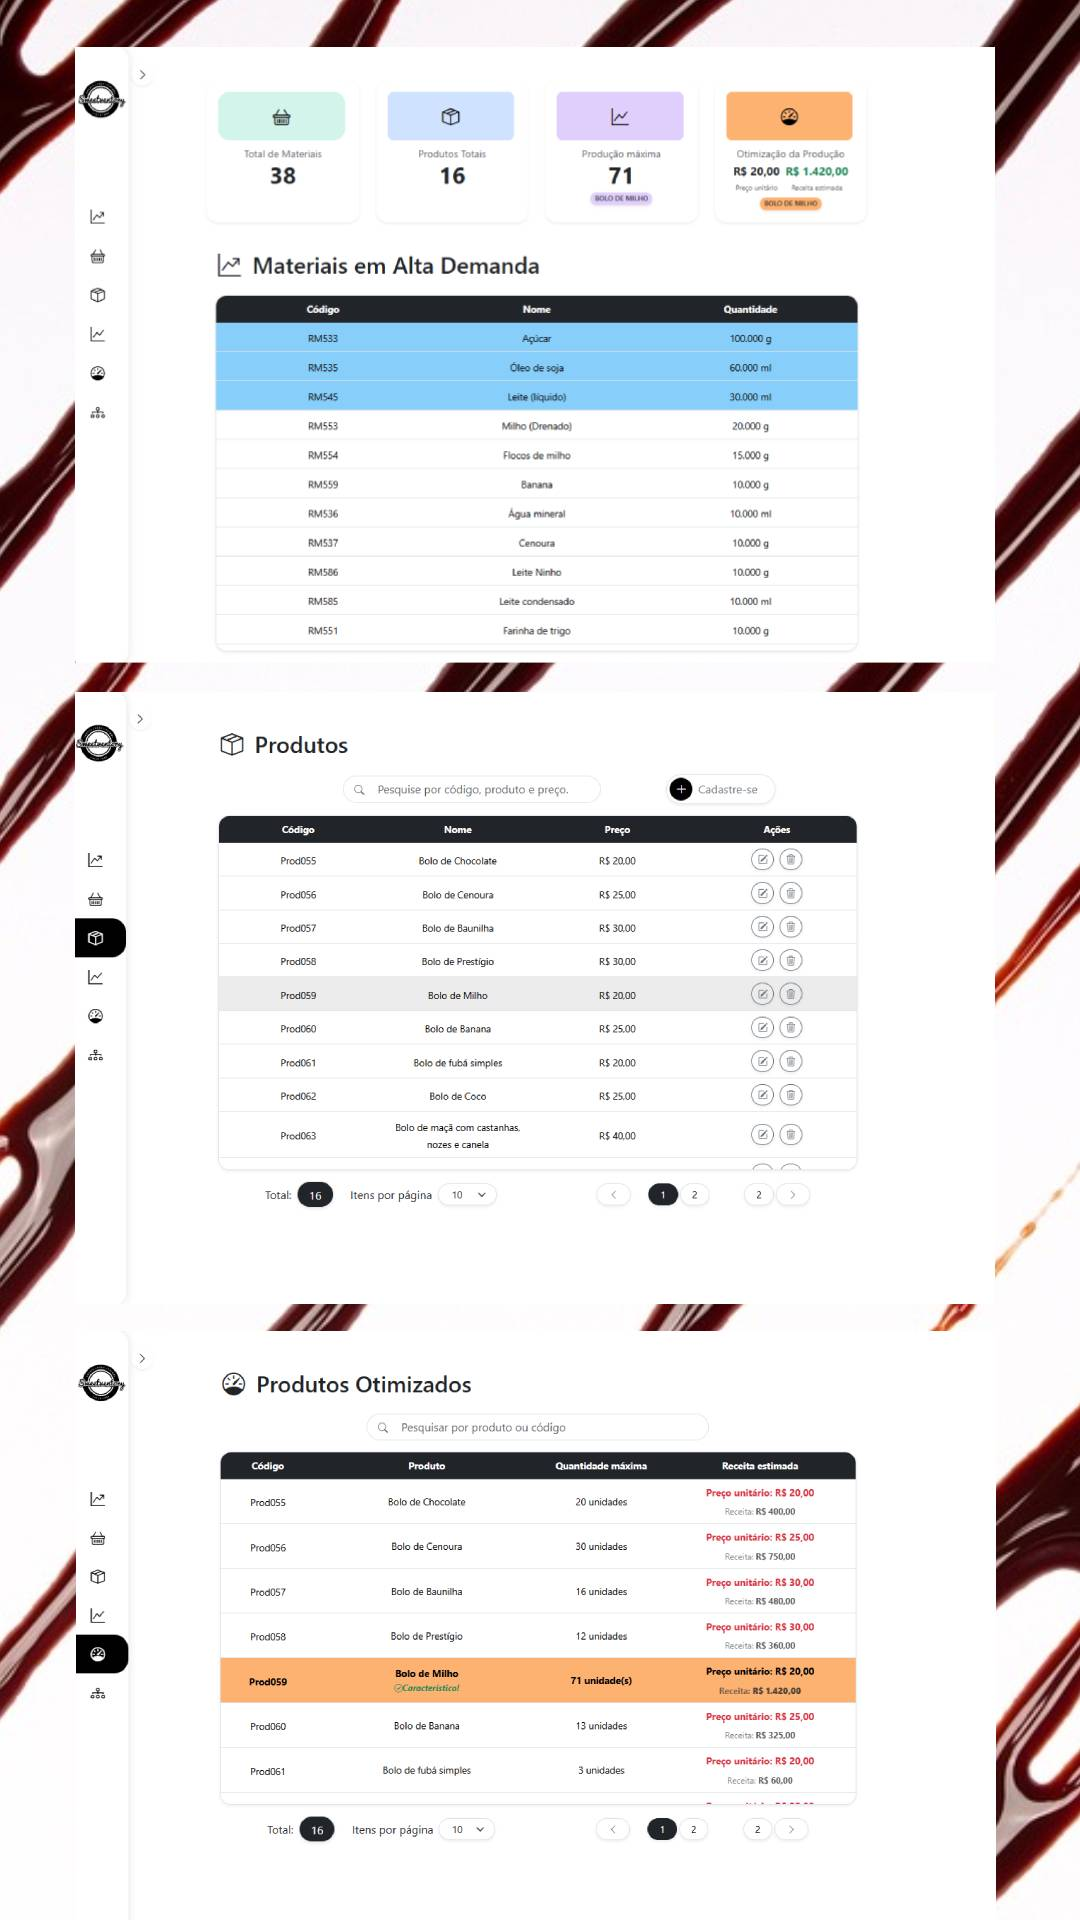
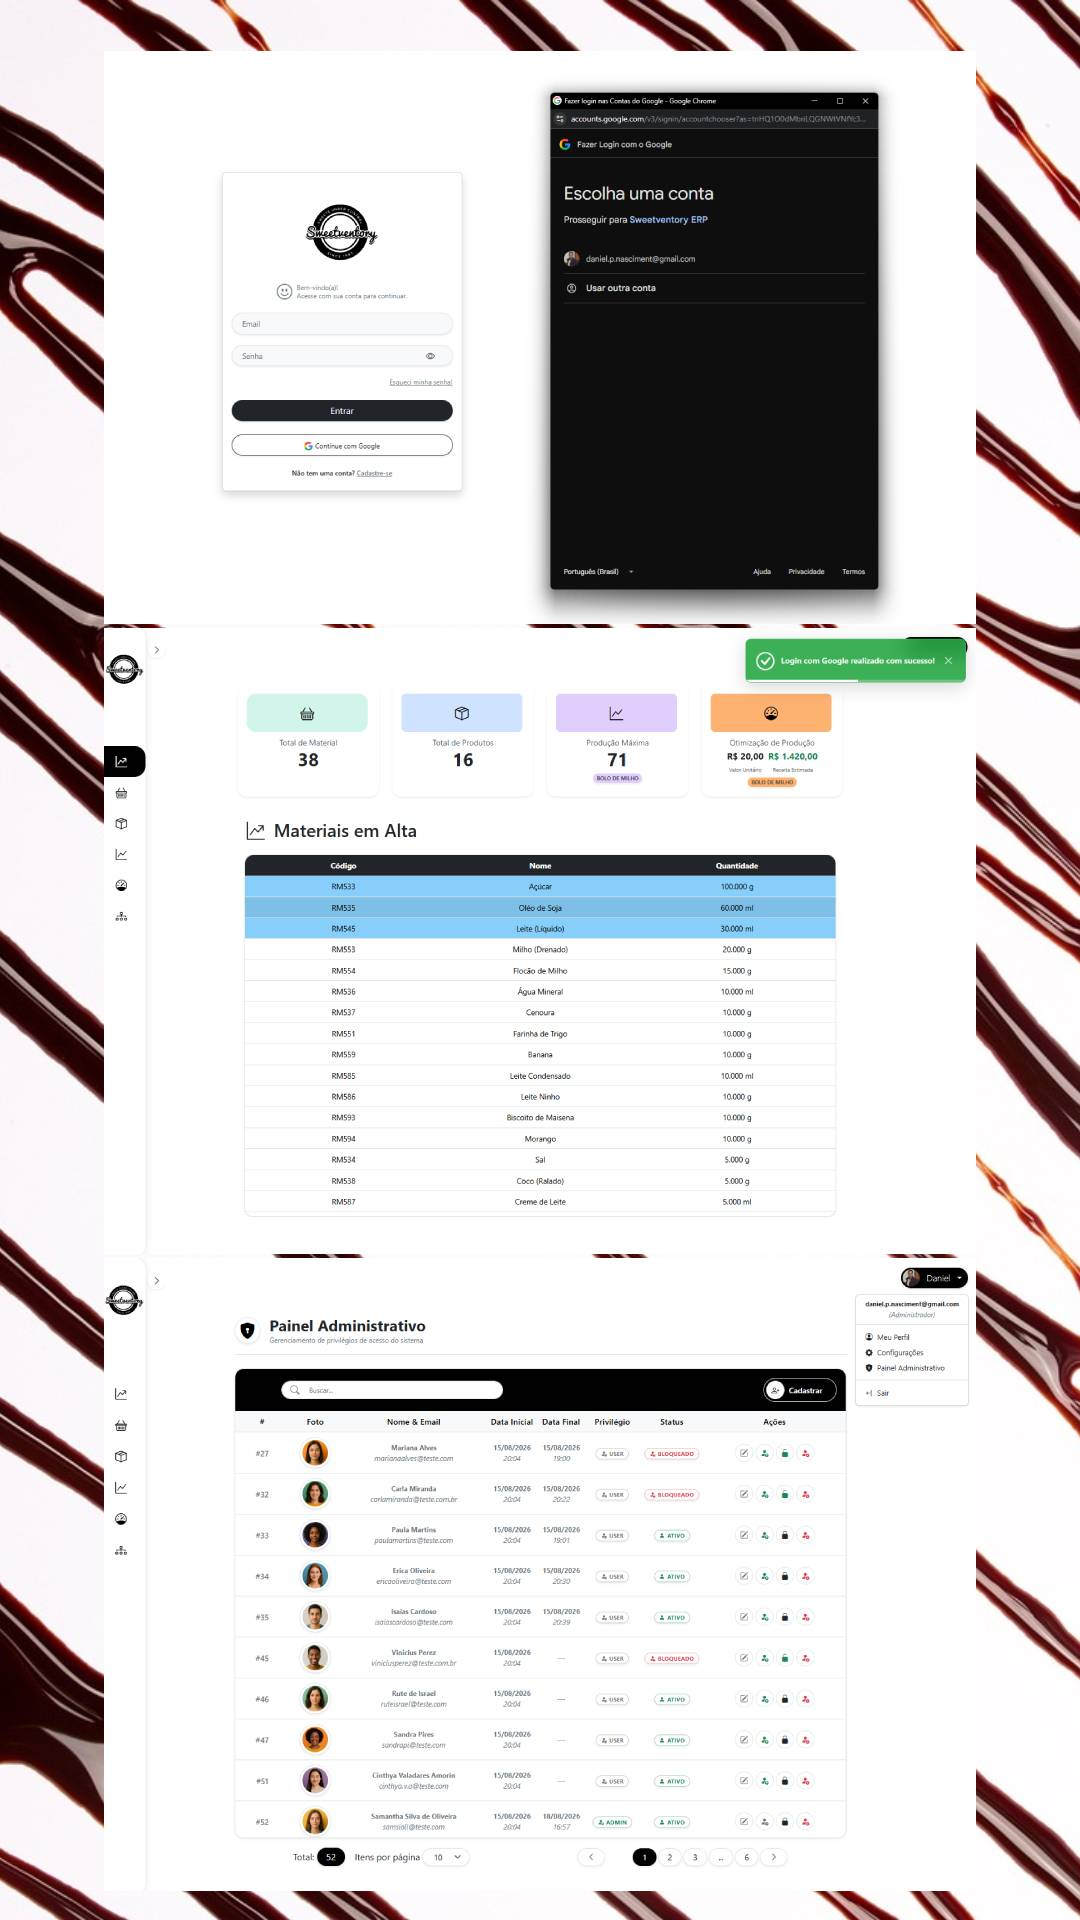
fix: Apresentação de novas implementações do login no ERP

diff --git a/index.html b/index.html
@@ -425,6 +425,10 @@
                             <img src="img/habilidade/icon_cloudinary.svg" alt="Imagem Icone Google Cloudinary" />
                             <h4>Cloudinary</h4>
                         </div>
+                        <div class="iconImg" data-animation="right">
+                            <img src="img/habilidade/icon_jwt.svg" alt="Imagem Icone Jwt" />
+                            <h4>Jwt</h4>
+                        </div>
 
                     </div>
                 </div>
@@ -558,7 +562,8 @@
                                 </div>
                                 <div class="card-text">
                                     <h3>ERP Industrial para Confeitaria</h3>
-                                    <span>Projeto FullStack com Angular v17, Spring Boot e PostgreSQL.</span>
+                                    <span>Projeto FullStack com autenticação JWT, Google, gerenciamento de usuários e
+                                        integração com serviços Cloud.</span>
                                     <h4>
                                         <svg xmlns="http://www.w3.org/2000/svg" width="10" height="10" fill="#33ffcc"
                                             viewBox="0 0 16 16">
@@ -590,6 +595,10 @@
                                         </svg>
                                         <i class="fa-brands fa-java"></i>
                                         <img src="img/portfolio/postgresql.svg" alt="">
+                                        <img src="img/portfolio/icon_google_cloud.svg" alt="">
+                                        <img src="img/portfolio/icon_google_account.svg" alt="">
+                                        <img src="img/portfolio/icon_cloudinary.svg" alt="">
+                                        <img src="img/portfolio/icon_jwt.svg" alt="">
 
                                     </div>
                                     <a href="https://web-inventory-erp-demo.netlify.app/" target="_blank">
